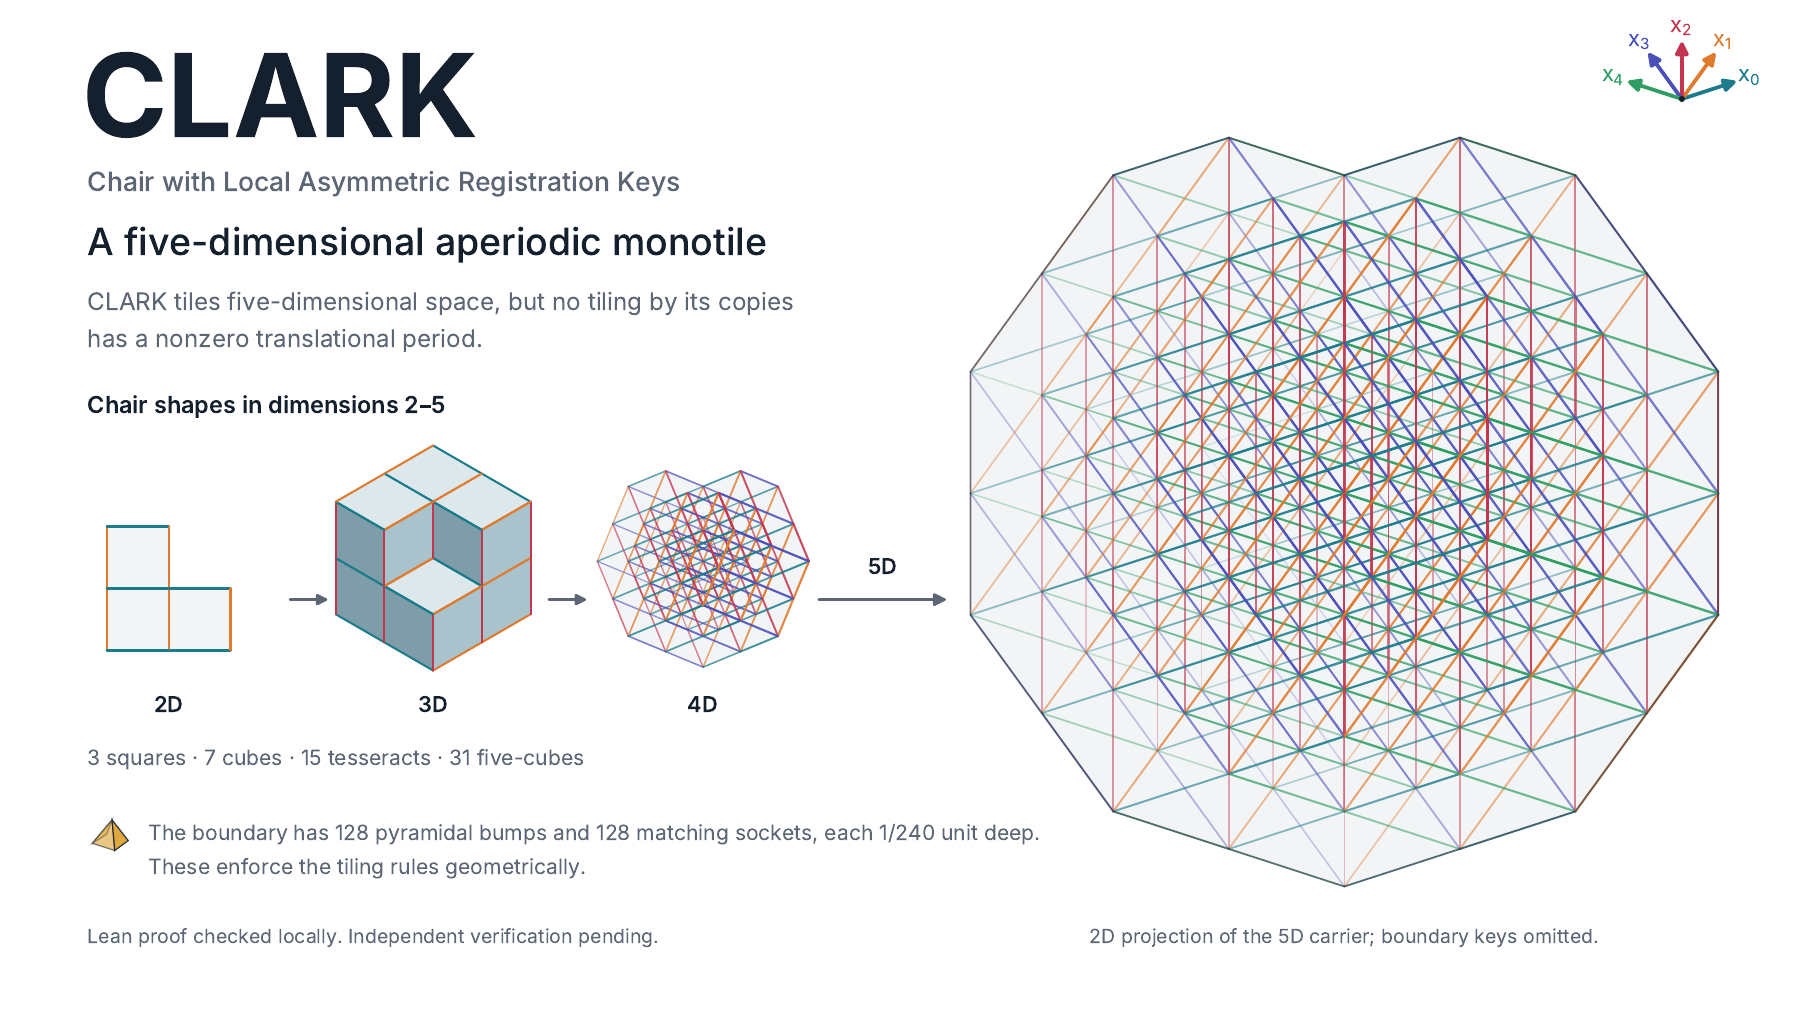
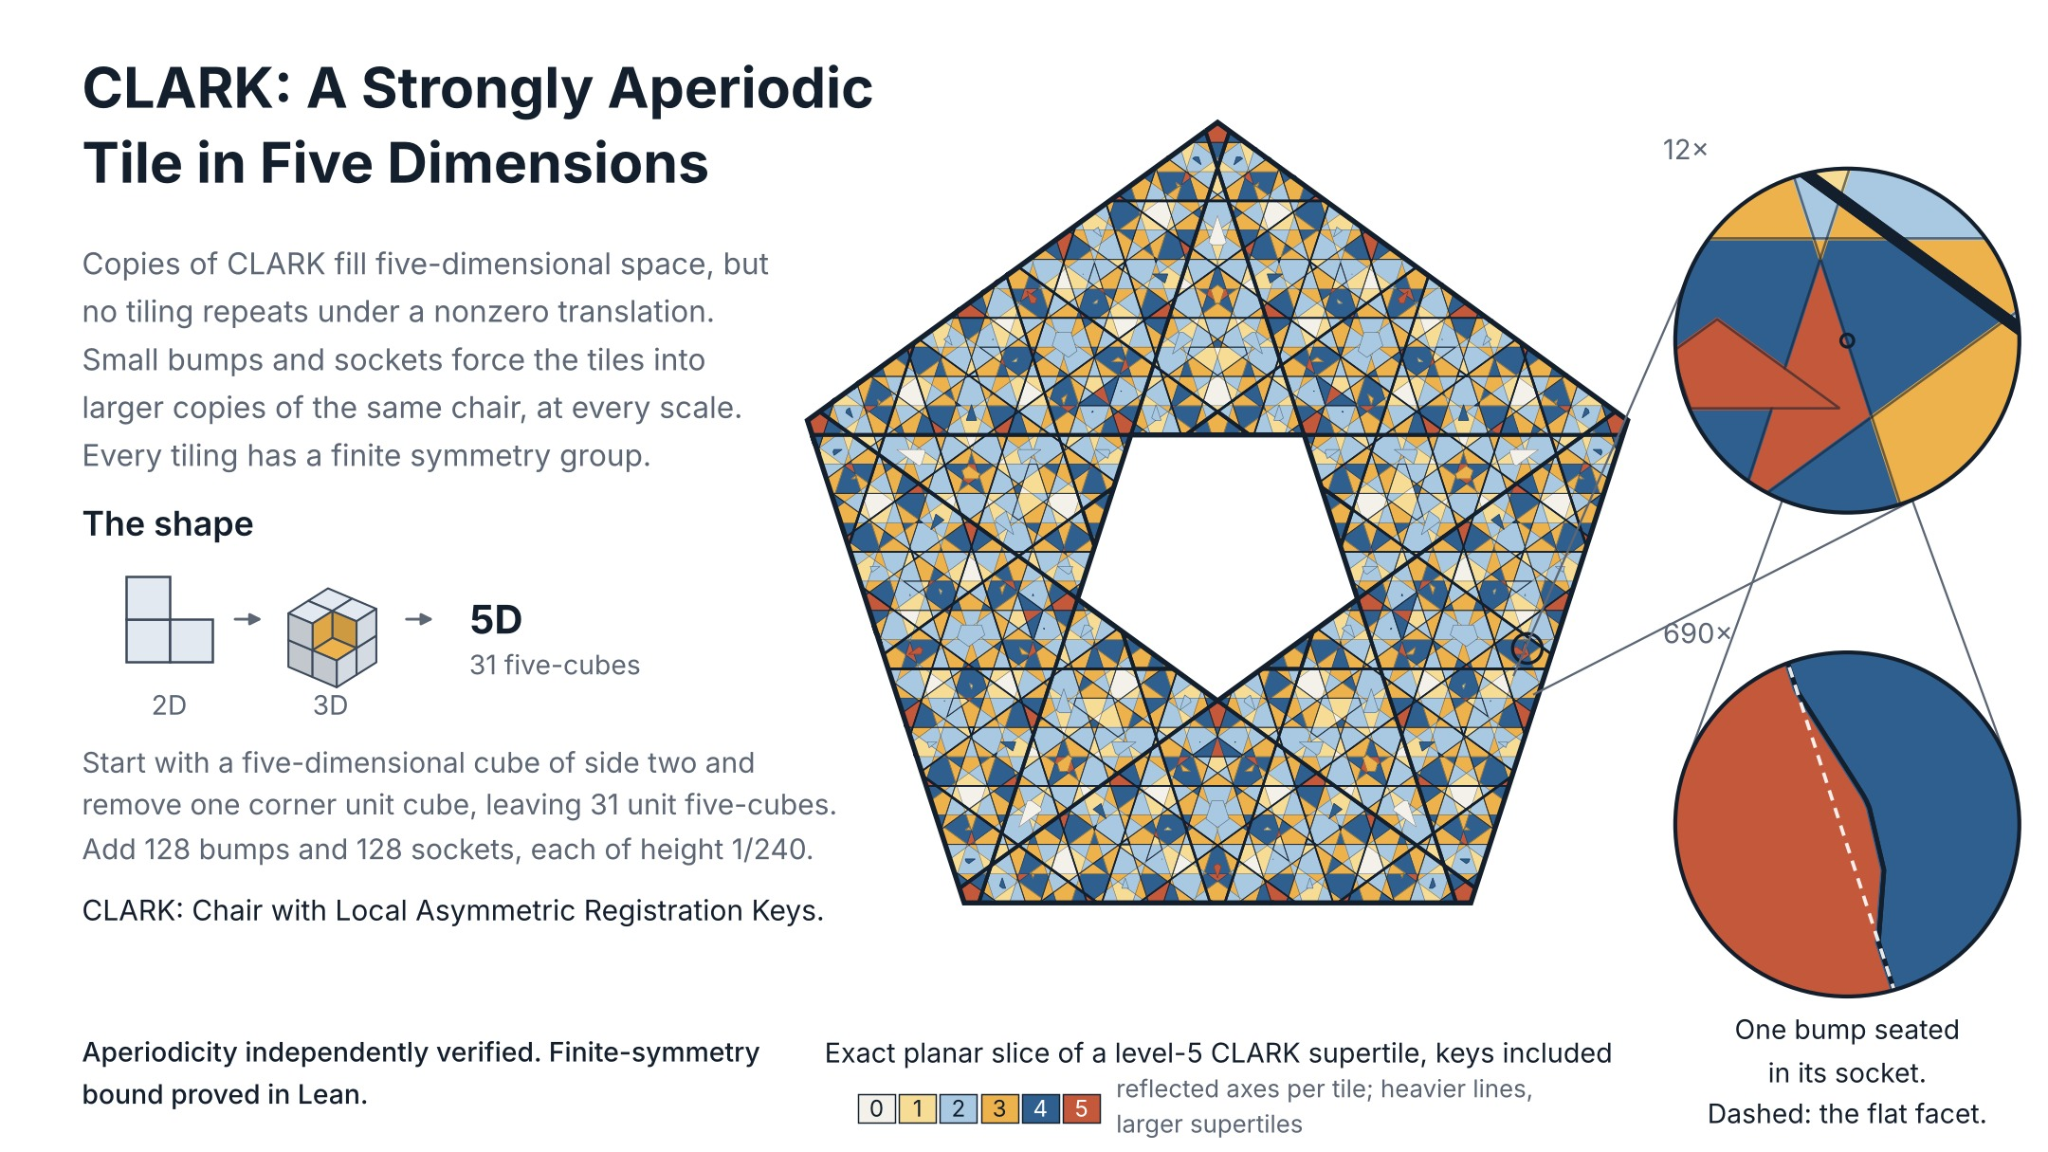
Add verified CLARK slice image and stronger proof links

diff --git a/README.md b/README.md
@@ -1,4 +1,4 @@
-# The CLARK Tile: An Aperiodic Monotile in Five Dimensions
+# The CLARK Tile: A Strongly Aperiodic Monotile in Five Dimensions
 
 Conor Grogan, author and responsible maintainer
 
@@ -6,46 +6,47 @@ Companion preprint: [read the paper on Zenodo](https://zenodo.org/records/231974
 
 We call the five-dimensional construction **CLARK**, for **Chair with Local Asymmetric Registration Keys**. It retains the Lean identifier **T5**.
 
-![CLARK carrier projection](CLARK_overview.png)
+![Planar section of a level-five CLARK carrier patch with matching-key zooms](CLARK_overview.png)
 
-Projection of the carrier; boundary keys omitted. Illustration does not replace exact shape specification.
+The main panel shows carrier sections. Matching keys are resolved in the 12× and 690× zooms of the same plane. Colours count negative coordinate signs; all displayed full frames preserve orientation. The small target ring is enlarged 2.2× for visibility. See [figure details and the sections/key diagrams](figures/README.md).
 
-[Download the CLARK tile illustration (PDF)](Clark_5D_tile.pdf)
-
-We give an explicit compact tile in five-dimensional Euclidean space and prove that it admits tilings but no periodic tiling. The construction modifies a chair made from 31 unit five-cubes with 256 rational pyramidal keys. Copies may be translated, rotated, or reflected. The theorem states that every tiling by these copies has no nonzero translation preserving its tile collection. The Lean formalization fixes the exact body and proves compactness, existence, and aperiodicity without assuming lattice registration or matching rules. See the [exact tile definition](https://github.com/jconorgrogan/palomar-chair-verification/blob/9008dec3afc006a62d3d2fd6b49b12f189248f33/Challenge.lean), the [selected theorem proof](https://github.com/jconorgrogan/palomar-chair-verification/blob/9008dec3afc006a62d3d2fd6b49b12f189248f33/Solution.lean), and the [complete physical monotile theorem](https://github.com/jconorgrogan/palomar-chair-verification/blob/9008dec3afc006a62d3d2fd6b49b12f189248f33/SparseMonotiles/T5Monotile.lean).
+We give an explicit compact tile in five-dimensional Euclidean space and prove that it admits tilings but no periodic tiling. The construction modifies a chair made from 31 unit five-cubes with 256 rational pyramidal keys. Copies may be translated, rotated, or reflected. The theorem states that every tiling by these copies has no nonzero translation preserving its tile collection. It also proves that the full Euclidean symmetry group of every such tiling is finite, with at most **3,840** elements. Here, strongly aperiodic means finite full symmetry group; a trivial symmetry group is not asserted. The Lean formalization fixes the exact body and proves compactness, existence, and aperiodicity without assuming lattice registration or matching rules. See the [exact tile definition](https://github.com/jconorgrogan/palomar-chair-verification/blob/5f5ceedee770b76c21e8f1105e5e4e3b84b8d676/Challenge.lean), the [selected theorem proof](https://github.com/jconorgrogan/palomar-chair-verification/blob/5f5ceedee770b76c21e8f1105e5e4e3b84b8d676/Solution.lean), and the [complete physical monotile theorem](https://github.com/jconorgrogan/palomar-chair-verification/blob/5f5ceedee770b76c21e8f1105e5e4e3b84b8d676/SparseMonotiles/T5Monotile.lean).
 
 ## Proof and verification status
 
-The complete theorem, its exact compact-body binding, and the actual Solution have passed local Lean **4.35.0-rc2** checks. The audited theorem depends only on `propext`, `Classical.choice`, and `Quot.sound`.
+The stronger selected theorem, independent Challenge, actual Solution and axiom audit have passed local Lean **4.35.0-rc2** checks. The whole statement-definition comparison passed with no exemptions. The audited theorem depends only on `propext`, `Classical.choice`, and `Quot.sound`. The [extension evidence](https://github.com/jconorgrogan/palomar-chair-verification/blob/5f5ceedee770b76c21e8f1105e5e4e3b84b8d676/verification/STRONG_EXTENSION.md) records these local checks and their scope.
 
[1 lines of base64/hex data omitted]
+**The stronger theorem’s [official full preflight is in progress](https://github.com/jconorgrogan/palomar-chair-verification/actions/runs/37544058631)** for immutable source commit `5f5ceedee770b76c21e8f1105e5e4e3b84b8d676`. A successful full independent replay of this stronger target is not yet claimed.
+
[1 lines of base64/hex data omitted]
 
 The [first full run](https://github.com/jconorgrogan/palomar-chair-verification/actions/runs/37509737027) clean-built all 4,135 Lake jobs but rejected a generated statement-helper proof before the independent main kernels. The repair replaced only two bound-proof blocks with explicit terms; the complete helper function is definitionally unchanged. Local whole-statement dependency comparison and affected-binding/Solution checks passed before the successful official retry. The exact [repair evidence](https://github.com/jconorgrogan/palomar-chair-verification/blob/9008dec3afc006a62d3d2fd6b49b12f189248f33/verification/COMPARATOR_REPAIR.md) preserves that history.
 
-The selected result is `PalomarMonotiles.T5_isAperiodicMonotile`. The independent Challenge fixes the exact shape and the physical tiling statement; the Solution proves that statement without importing Challenge. The Comparator has no definition exemptions.
+The selected result is `PalomarMonotiles.T5_strongAperiodicity`, with statement `T5StrongClaim`. It retains the original compactness, tiling-existence and translation-aperiodicity claim as a conjunct. The independent Challenge fixes the exact shape and the physical tiling statement; the Solution proves that statement without importing Challenge. The Comparator has no definition exemptions.
 
 ## Exact source snapshot
 
-The complete source is on [the T5 verification branch](https://github.com/jconorgrogan/palomar-chair-verification/tree/verification/palomar-repair1-20261006), frozen at commit [`9008dec3afc006a62d3d2fd6b49b12f189248f33`](https://github.com/jconorgrogan/palomar-chair-verification/tree/9008dec3afc006a62d3d2fd6b49b12f189248f33).
+The complete stronger source is on [the T5 verification branch](https://github.com/jconorgrogan/palomar-chair-verification/tree/verification/palomar-strong1-20261006), frozen at commit [`5f5ceedee770b76c21e8f1105e5e4e3b84b8d676`](https://github.com/jconorgrogan/palomar-chair-verification/tree/5f5ceedee770b76c21e8f1105e5e4e3b84b8d676).
 
-- [Full mathematical account and reproduction instructions](https://github.com/jconorgrogan/palomar-chair-verification/blob/9008dec3afc006a62d3d2fd6b49b12f189248f33/README.md)
-- [Independent Challenge](https://github.com/jconorgrogan/palomar-chair-verification/blob/9008dec3afc006a62d3d2fd6b49b12f189248f33/Challenge.lean) and [actual Solution](https://github.com/jconorgrogan/palomar-chair-verification/blob/9008dec3afc006a62d3d2fd6b49b12f189248f33/Solution.lean)
-- [Structured metadata, source relationships, automation and review account](https://github.com/jconorgrogan/palomar-chair-verification/blob/9008dec3afc006a62d3d2fd6b49b12f189248f33/formalization.yaml)
-- [Exact source manifest](https://github.com/jconorgrogan/palomar-chair-verification/blob/9008dec3afc006a62d3d2fd6b49b12f189248f33/SOURCE_MANIFEST.json)
+- [Full mathematical account and reproduction instructions](https://github.com/jconorgrogan/palomar-chair-verification/blob/5f5ceedee770b76c21e8f1105e5e4e3b84b8d676/README.md)
+- [Finite full-symmetry proof](https://github.com/jconorgrogan/palomar-chair-verification/blob/5f5ceedee770b76c21e8f1105e5e4e3b84b8d676/SparseMonotiles/FiniteSymmetry.lean)
+- [Independent Challenge](https://github.com/jconorgrogan/palomar-chair-verification/blob/5f5ceedee770b76c21e8f1105e5e4e3b84b8d676/Challenge.lean) and [actual Solution](https://github.com/jconorgrogan/palomar-chair-verification/blob/5f5ceedee770b76c21e8f1105e5e4e3b84b8d676/Solution.lean)
+- [Structured metadata, source relationships, automation and review account](https://github.com/jconorgrogan/palomar-chair-verification/blob/5f5ceedee770b76c21e8f1105e5e4e3b84b8d676/formalization.yaml)
+- [Exact source manifest](https://github.com/jconorgrogan/palomar-chair-verification/blob/5f5ceedee770b76c21e8f1105e5e4e3b84b8d676/SOURCE_MANIFEST.json)
 - [Verification runs](https://github.com/jconorgrogan/palomar-chair-verification/actions)
 
[2 lines of base64/hex data omitted]
 
 ## Reproduce this exact source
 
-[Download the complete pinned source ZIP](https://github.com/jconorgrogan/palomar-chair-verification/archive/9008dec3afc006a62d3d2fd6b49b12f189248f33.zip).
+[Download the complete pinned source ZIP](https://github.com/jconorgrogan/palomar-chair-verification/archive/5f5ceedee770b76c21e8f1105e5e4e3b84b8d676.zip).
 
 Use a Linux host meeting the official standard-profile floor: at least **14 GiB RAM and 20 GiB free disk**. Install Bash, Git, Python 3, curl 7.81 or newer with working TLS/network access, standard Unix utilities, and Bubblewrap with usable namespaces. The sandbox expects `/root`, `/home` and `/run/user` to exist. Use the official prebuilt **Lean 4.35.0-rc2** toolchain (directly or through Elan), with `lean`, `lake`, `leanexport`, `leanchecker`, `nanoda_bin`, `con-ron` and `leantar` available from that toolchain. Rust, Cargo and CMake are not required for this prebuilt route.
 
 From a directory without an existing `clark-replay` folder, run:
 
 ```sh
-COMMIT=9008dec3afc006a62d3d2fd6b49b12f189248f33; git clone https://github.com/jconorgrogan/palomar-chair-verification.git clark-replay && cd clark-replay && git checkout --detach "$COMMIT" && bash scripts/verify-t5-on-linux.sh
+COMMIT=5f5ceedee770b76c21e8f1105e5e4e3b84b8d676; git clone https://github.com/jconorgrogan/palomar-chair-verification.git clark-replay && cd clark-replay && git checkout --detach "$COMMIT" && bash scripts/verify-t5-on-linux.sh
 ```
 
 The script checks the exact source manifest, builds the selected proof and invokes the unchanged bundled Comparator with Lean, NanoDa and verified con-ron. It requires a host that supports Bubblewrap namespaces and can take an hour or more. The official reusable workflow additionally checks metadata, Challenge provenance, execution-profile limits and its mechanical report. The command above reproduces the proof/Comparator/kernel portion; it does not by itself replace the required full Palomar workflow report.
